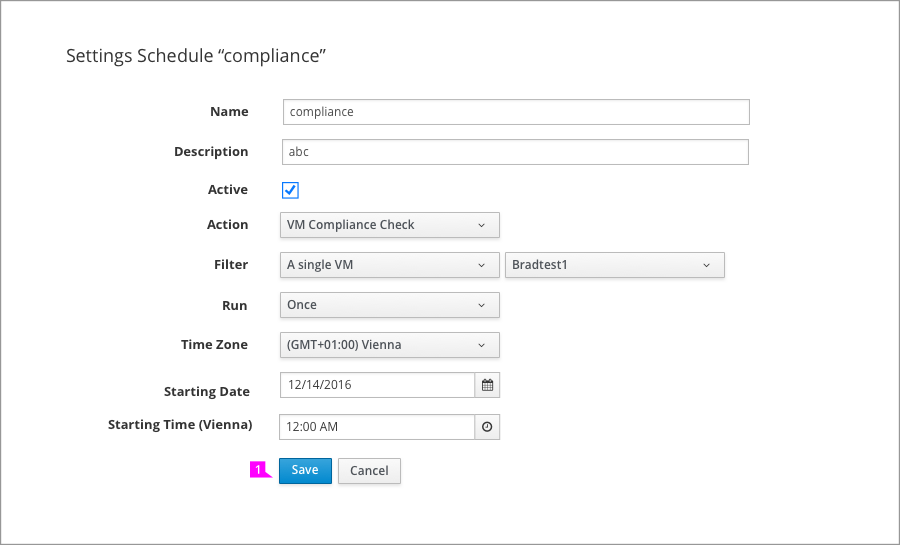
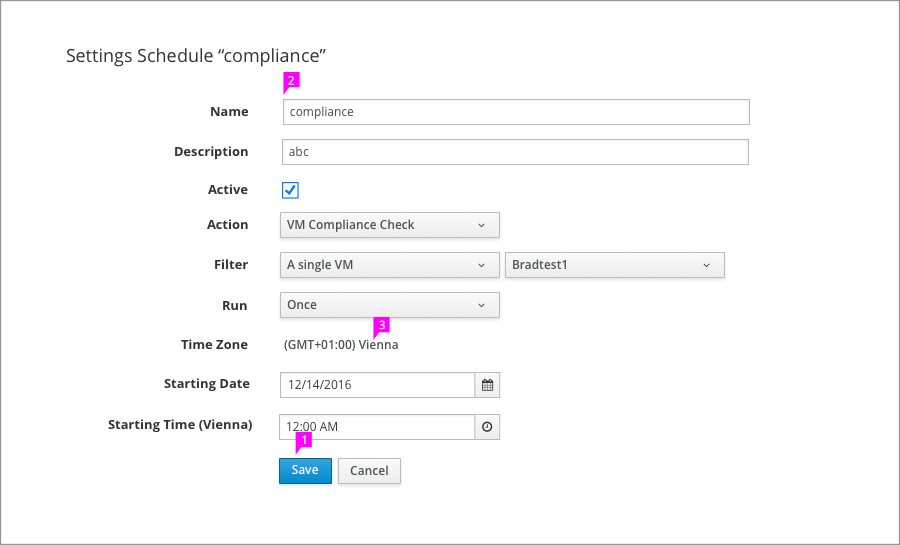
Updated some description about form content part.

diff --git a/pattern-library/forms-and-controls/view-edit-mode/design.md b/pattern-library/forms-and-controls/view-edit-mode/design.md
@@ -3,12 +3,13 @@
 ## View mode
 ![Image highlighting attribute selector](img/View.png)
 
- 1. The "Edit" button has been put in the top right corner. Horizontal center align with the title.
- 1. Use default button style for edit button. In view status, it doesn't take to much visual noise that influence user reviewing the form contents.
+ 1. The "Edit" button has been put in the top right corner. Horizontal center align with the title. Use default button style for edit button. In view status, it doesn't take to much visual noise that influence user reviewing the form contents.
+ 1. Just show the text information in form content section. Without click "edit" button. User can edit nothing in this part.
 
 ## Edit mode
 
 ![Title highlighting active filters bar](img/Edit.png)
 
- 1. In edit mode, the "Edit" button will be hidden. The operation buttons such as "Save" and "Cancel" will be in the bottom of form.
- 1. After clicking the operation buttons, the page will return to view mode.
+ 1. In edit mode, the "Edit" button will be hidden. The operation buttons such as "Save" and "Cancel" will be show in the bottom of form.
+ 1. After click "edit" button, the content part will be changed to form. User can do the edit operation in the form.  After clicking the operation buttons, the page will return to view mode.
+ 1. If the data don't allow user to edit, it will be displayed in text. (eg. Time Zone)
